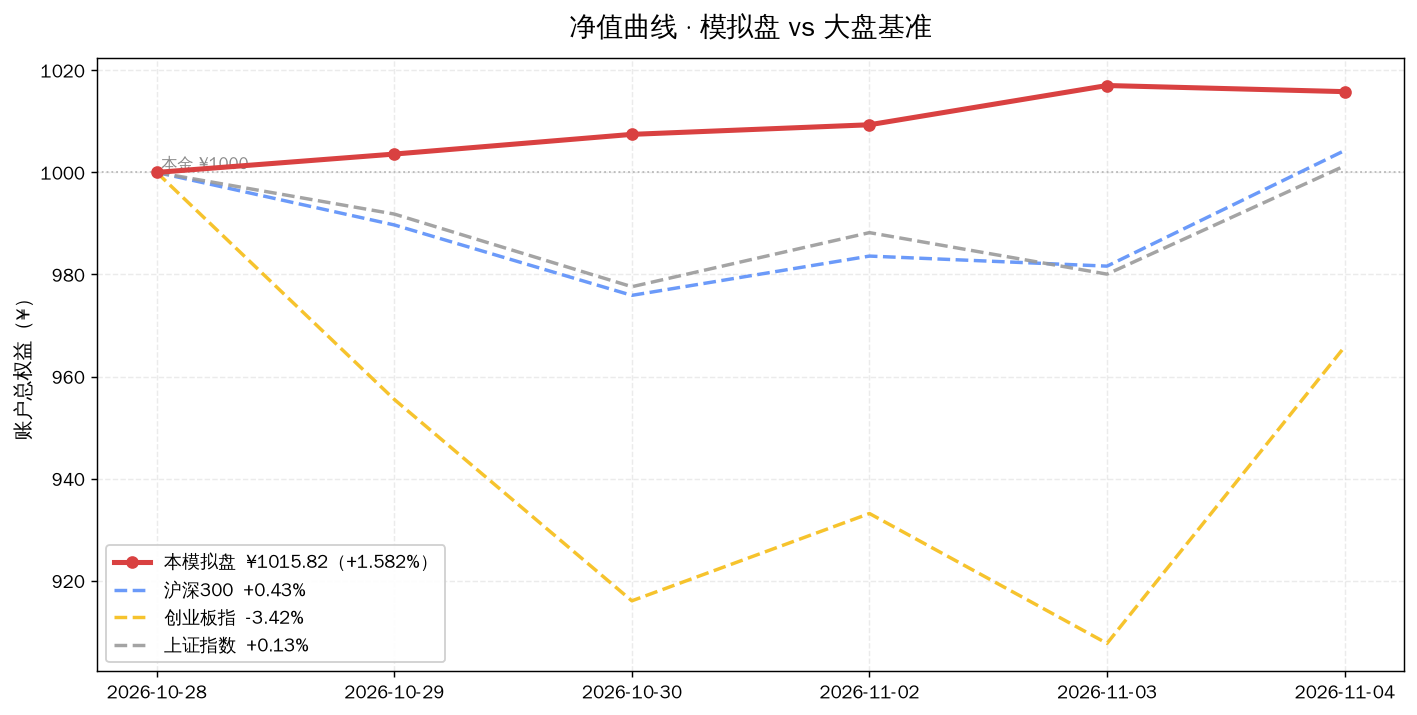
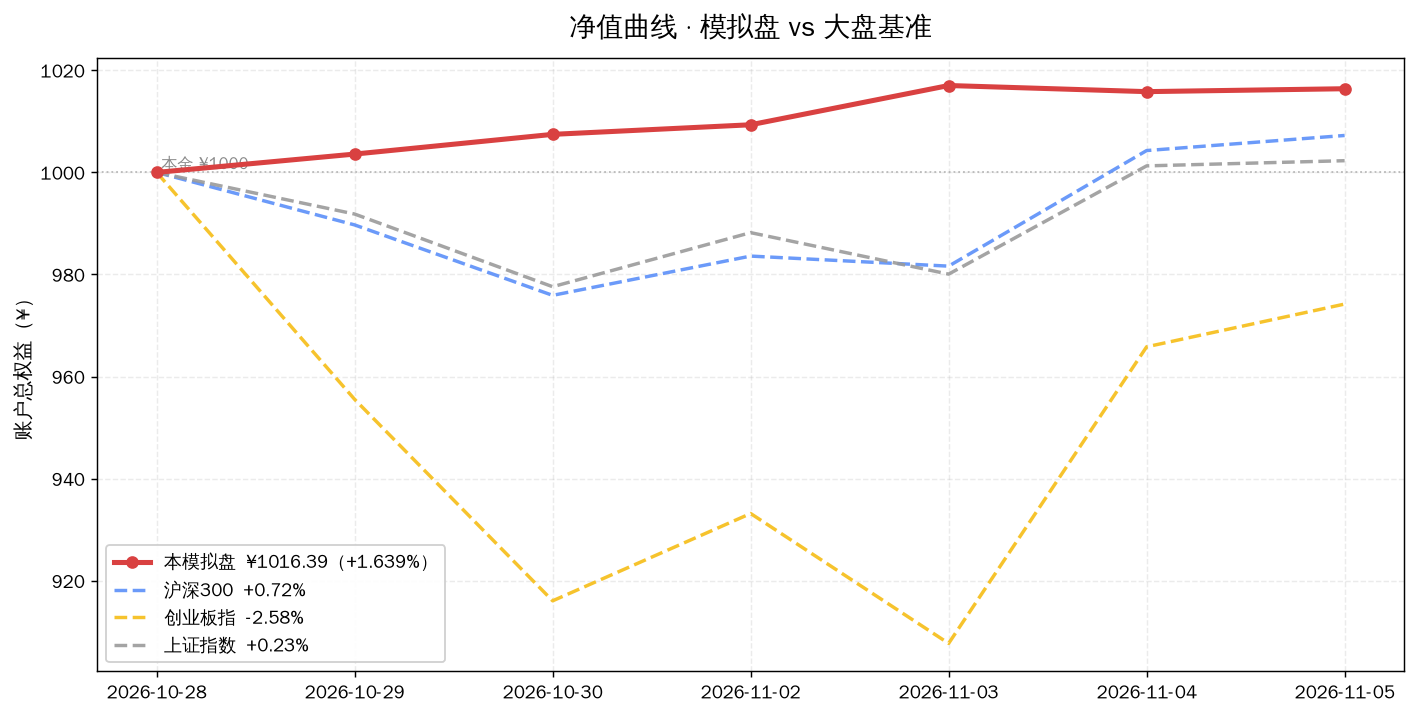
sim: dashboard update 2026-11-05 (equity ¥1016.39, +1.639%)

diff --git a/sim/DASHBOARD.md b/sim/DASHBOARD.md
@@ -1,8 +1,8 @@
 # 📊 模拟盘动态看板
 
-> **自动生成** · 最后更新 **2026-11-04 16:31** · 数据源：腾讯财经公开接口（实时行情）
+> **自动生成** · 最后更新 **2026-11-05 16:30** · 数据源：腾讯财经公开接口（实时行情）
 >
-> 本金 **¥1000.00** · 开仓 **2026-10-28** · 当前总权益 **¥1015.82** · 累计 **+1.582%**
+> 本金 **¥1000.00** · 开仓 **2026-10-28** · 当前总权益 **¥1016.39** · 累计 **+1.639%**
 >
 > ⚠ **纯模拟盘学习实验，不构成投资建议。**
 >
@@ -12,9 +12,9 @@
 
 ## 🎯 30 秒版本
 
-1. 从 2026-10-28 开仓到今天，账户从 ¥1000 变成 **¥1015.82**，赚了 **¥15.82（+1.582%）**。
-2. 今天单日 **-0.12%**，下跌 **¥1.20**。
-3. 同期大盘：**沪深300 +0.43%** 最强，**创业板指 -3.42%** 最弱 —— 本组合跑赢同期最强基准 +1.15 个百分点。
+1. 从 2026-10-28 开仓到今天，账户从 ¥1000 变成 **¥1016.39**，赚了 **¥16.39（+1.639%）**。
+2. 今天单日 **+0.06%**，上涨 **¥0.57**。
+3. 同期大盘：**沪深300 +0.72%** 最强，**创业板指 -2.58%** 最弱 —— 本组合跑赢同期最强基准 +0.92 个百分点。
 
 ## 📈 盈亏曲线
 
@@ -34,7 +34,7 @@
 
 ![盘中曲线](assets/intraday.png)
 
-**怎么读**：2026-11-04 当天每 30 分钟记录一次的账户总值。灰色虚线是当天开盘起点，曲线在虚线上方就是当天浮盈。A 股中午 11:30–13:00 休市，所以那段是平的。
+**怎么读**：2026-11-05 当天每 30 分钟记录一次的账户总值。灰色虚线是当天开盘起点，曲线在虚线上方就是当天浮盈。A 股中午 11:30–13:00 休市，所以那段是平的。
 
 ### 💵 每日盈亏明细图
 
@@ -50,21 +50,21 @@
 
 | 指标 | 数值 | 人话解读 |
 |---|---|---|
-| 总权益 | **¥1015.82** | 现在全部卖掉能拿回多少钱（持仓市值 + 现金） |
-| 持仓市值 | ¥741.99（73.0%） | 买成 ETF 的部分 |
-| 现金 | ¥273.83（27.0%） | 留着没买的钱，按货基利率计息 |
-| 累计盈亏 | **¥+15.82（+1.582%）** | 相对 ¥1000 本金 |
-| 今日盈亏 | **-0.12%** | 今天一天的变化 |
+| 总权益 | **¥1016.39** | 现在全部卖掉能拿回多少钱（持仓市值 + 现金） |
+| 持仓市值 | ¥742.55（73.1%） | 买成 ETF 的部分 |
+| 现金 | ¥273.84（26.9%） | 留着没买的钱，按货基利率计息 |
+| 累计盈亏 | **¥+16.39（+1.639%）** | 相对 ¥1000 本金 |
+| 今日盈亏 | **+0.06%** | 今天一天的变化 |
 | 历史最高 | ¥1017.02 | 账户到过的最高点 |
-| 当前回撤 | -0.118% | 离最高点还差多少（负数=没回到最高点） |
+| 当前回撤 | -0.062% | 离最高点还差多少（负数=没回到最高点） |
 
 ### 持仓明细
 
 | 标的 | 代码 | 持股 | 成本价 | 现价 | 今日 | 市值 | 浮动盈亏 | 人话解读 |
 |---|---|---|---|---|---|---|---|---|
-| 红利低波100ETF景顺 | 515100 | 450 | ¥1.431 | ¥1.466 | 🔻-0.54% | ¥659.70 | **+15.75（+2.45%）** | 赚钱了 |
-| 黄金ETF华安 | 518880 | 10 | ¥8.226 | ¥8.229 | 🔺+3.00% | ¥82.29 | **+0.03（+0.04%）** | 赚钱了 |
-| 现金 | — | — | — | — | — | ¥273.83 | — | 货基计息，年化 0.84% |
+| 红利低波100ETF景顺 | 515100 | 450 | ¥1.431 | ¥1.463 | 🔻-0.20% | ¥658.35 | **+14.40（+2.24%）** | 赚钱了 |
+| 黄金ETF华安 | 518880 | 10 | ¥8.226 | ¥8.420 | 🔺+2.32% | ¥84.20 | **+1.94（+2.36%）** | 赚钱了 |
+| 现金 | — | — | — | — | — | ¥273.84 | — | 货基计息，年化 0.84% |
 
 ---
 
@@ -110,33 +110,41 @@
 
 | 资产 | 目标占比 | 实际占比 | 偏离 | 判定 |
 |---|---|---|---|---|
-| 红利低波100ETF景顺 | 65% | 64.9% | -0.1pp | 🟢 正常，不动 |
-| 黄金ETF华安 | 8% | 8.1% | +0.1pp | 🟢 正常，不动 |
-| 现金（货基） | 27% | 27.0% | -0.0pp | 🟢 正常，不动 |
+| 红利低波100ETF景顺 | 65% | 64.8% | -0.2pp | 🟢 正常，不动 |
+| 黄金ETF华安 | 8% | 8.3% | +0.3pp | 🟢 正常，不动 |
+| 现金（货基） | 27% | 26.9% | -0.1pp | 🟢 正常，不动 |
 
 #### ② 补仓条件检查（规则：跌到成本价 -8% 触发补仓，每只最多 2 次）
 
 | 标的 | 成本价 | 现价 | 距成本 | 已补仓 | 判定 |
 |---|---|---|---|---|---|
-| 红利低波100ETF景顺 | ¥1.431 | ¥1.466 | +2.45% | 0/2 | 🟢 未触发（还差 10.4pp 才到 -8%） |
-| 黄金ETF华安 | ¥8.226 | ¥8.229 | +0.04% | 0/2 | 🟢 未触发（还差 8.0pp 才到 -8%） |
+| 红利低波100ETF景顺 | ¥1.431 | ¥1.463 | +2.24% | 0/2 | 🟢 未触发（还差 10.2pp 才到 -8%） |
+| 黄金ETF华安 | ¥8.226 | ¥8.420 | +2.36% | 0/2 | 🟢 未触发（还差 10.4pp 才到 -8%） |
 
 #### ③ 回撤检查（规则：账户从最高点回撤 -5% 只记录、不割肉）
 
 | 指标 | 数值 |
 |---|---|
 | 历史最高净值 | ¥1017.02（2026-11-03） |
-| 当前净值 | ¥1015.82（2026-11-04） |
-| 回撤幅度 | **-0.118%** |
+| 当前净值 | ¥1016.39（2026-11-05） |
+| 回撤幅度 | **-0.062%** |
 | 触发阈值 | -5% |
 
-> 🟢 **未触发**：距阈值还有 4.88pp 缓冲。即使触发，纪律也是记录而非卖出。
+> 🟢 **未触发**：距阈值还有 4.94pp 缓冲。即使触发，纪律也是记录而非卖出。
 
 #### ④ 今日结论
 
 > ⏸ **账户已冻结，不执行任何交易。** 以上检查仅作记录用途——共扫描 6 项纪律，触发 **0** 项。冻结状态下即使触发也不动手（用户决定不投 A 股）。
 
 ### 四、每日决策记录（当时怎么判断的）
+
+#### 📅 2026-11-05 · 权益 ¥1016.39（累计 +1.639%）
+
+- 总权益 **¥1016.39**（当日 +0.06% / 累计 +1.639%）
+- 红利低波100ETF景顺 1.463 (-0.20%)
+- 黄金ETF华安 8.420 (+2.32%)
+- 现金 ¥273.84
+- 📝 自动收盘估值（看板 cron）
 
 #### 📅 2026-11-04 · 权益 ¥1015.82（累计 +1.582%）
 
@@ -193,9 +201,9 @@
 
 | 指数 | 同期涨跌 | 本组合超额 | 人话解读 |
 |---|---|---|---|
-| 沪深300 | +0.43% | **+1.15pp** | 跑赢 1.15 个百分点 |
-| 创业板指 | -3.42% | **+5.00pp** | 跑赢 5.00 个百分点 |
-| 上证指数 | +0.13% | **+1.45pp** | 跑赢 1.45 个百分点 |
+| 沪深300 | +0.72% | **+0.92pp** | 跑赢 0.92 个百分点 |
+| 创业板指 | -2.58% | **+4.22pp** | 跑赢 4.22 个百分点 |
+| 上证指数 | +0.23% | **+1.41pp** | 跑赢 1.41 个百分点 |
 
 > 注：`pp` = percentage point（百分点），是两个百分比相减的单位。「+2.5pp」意思是「比它高 2.5 个百分点」，不是「高 2.5%」。
 
@@ -209,6 +217,7 @@
 | 2026-11-02 | ¥1009.33 | ¥735.51 | ¥273.82 | +0.933% |
 | 2026-11-03 | ¥1017.02 | ¥743.19 | ¥273.83 | +1.702% |
 | 2026-11-04 | ¥1015.82 | ¥741.99 | ¥273.83 | +1.582% |
+| 2026-11-05 | ¥1016.39 | ¥742.55 | ¥273.84 | +1.639% |
 
 ---
 
@@ -221,4 +230,4 @@
 
 ---
 
-_本页由 `dashboard.py` 自动生成于 2026-11-04 16:31:07，每个交易日收盘后刷新。_
+_本页由 `dashboard.py` 自动生成于 2026-11-05 16:30:08，每个交易日收盘后刷新。_

diff --git a/sim/journal.md b/sim/journal.md
@@ -63,3 +63,11 @@
 - 现金 ¥273.83
 - 📝 自动收盘估值（看板 cron）
 
+## 2026-11-05 收盘
+
+- 总权益 **¥1016.39**（当日 +0.06% / 累计 +1.639%）
+- 红利低波100ETF景顺 1.463 (-0.20%)
+- 黄金ETF华安 8.420 (+2.32%)
+- 现金 ¥273.84
+- 📝 自动收盘估值（看板 cron）
+
